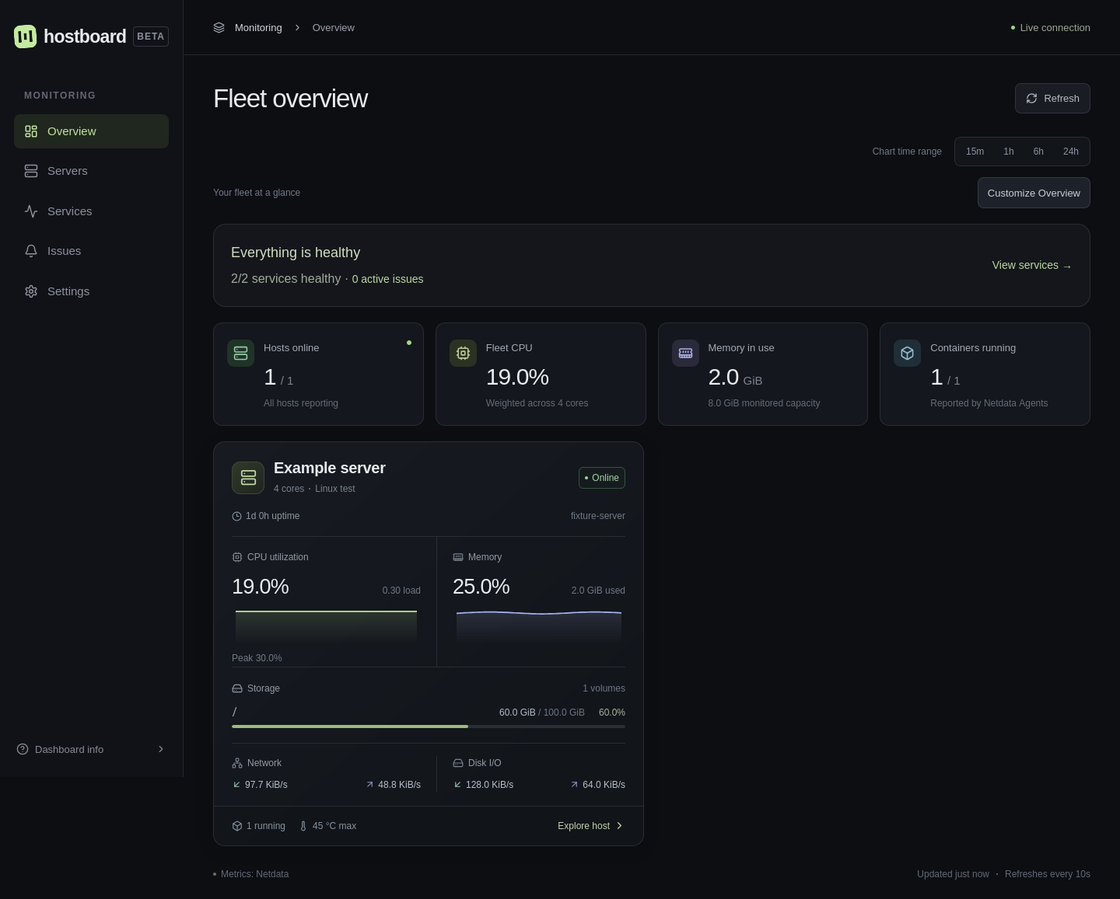
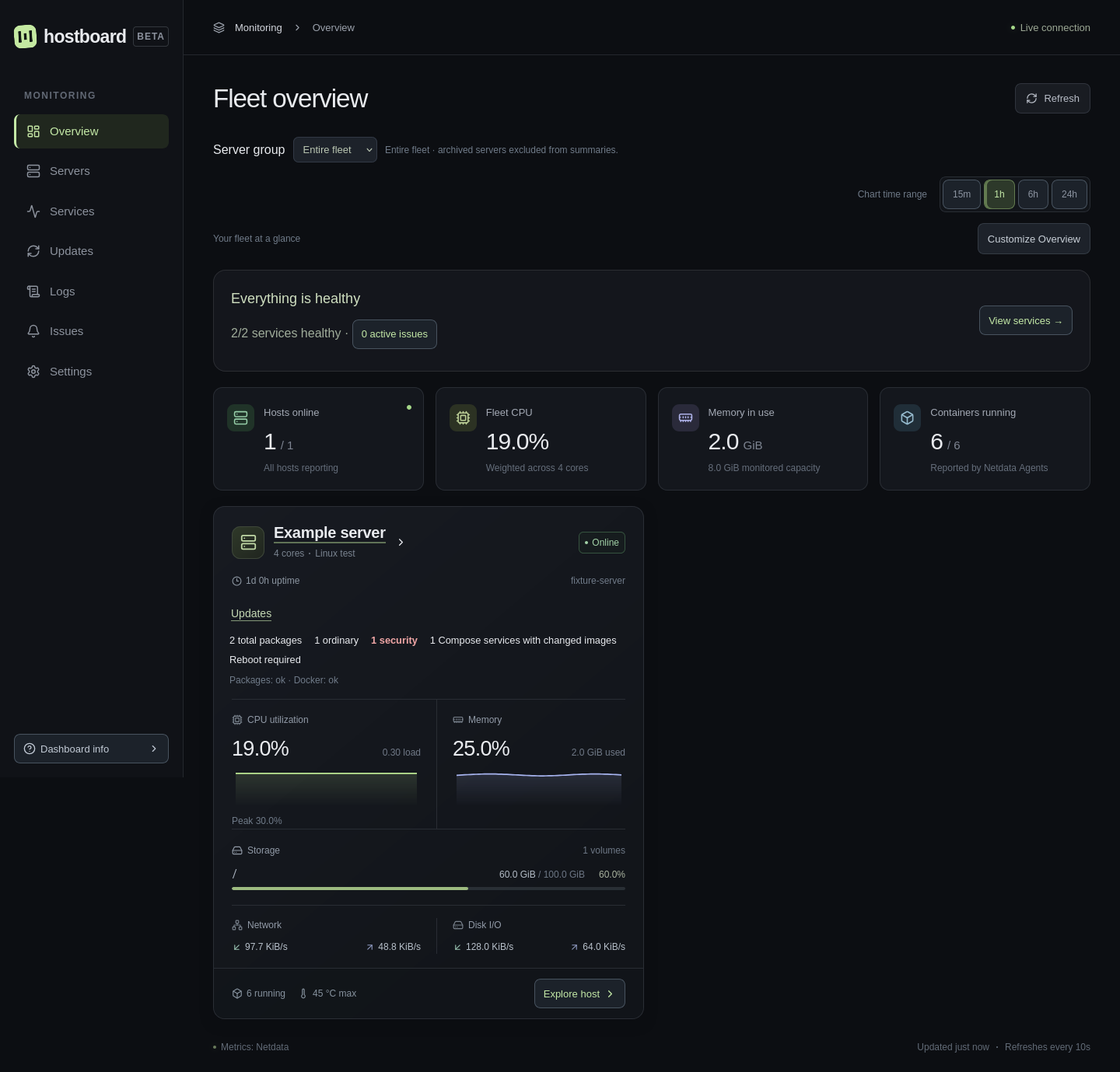
Refresh public guides for current main and published releases

diff --git a/README.md b/README.md
@@ -1,22 +1,27 @@
 # Hostboard
 
-> v0.6 adds optional, administrator-protected Docker logs and incident investigation, retaining the independently verified v0.5.3 monitoring reliability baseline.
+A self-hosted dashboard for servers monitored by **Netdata Agents**. View live metrics, historical charts, Docker resources, Netdata alerts, service availability, persistent incidents, and update inventories in one place.
 
-A self-hosted dashboard for servers monitored by **Netdata Agents**. View live metrics, historical charts, Docker resources, Netdata alerts, service availability, and persistent incidents in one place.
+**Version scope:** this README describes `main` (0.9.0). The latest [published release is v0.7.1](https://github.com/KLCaron/hostboard/releases/latest). Update Monitor, issue handling, container cards, and the newest dependency fixes are on `main` and are not included in that published image. To run the current code, use the [source-build instructions](docs/installation.md#build-from-source). Do not assume a `0.9.0` registry image exists just because that version appears in the source defaults.
 
-Hostboard queries existing Agents directly. It does not replace Netdata's collectors, metric storage, retention, or alert engine, and does not require Netdata Cloud. Its own SQLite database stores service checks, incidents, notification delivery state, and application preferences.
+Hostboard queries existing Agents directly. It does not replace Netdata's collectors, metric storage, retention, or alert engine, and does not require Netdata Cloud. Its own SQLite database stores server registrations, service checks, incidents, issue-handling rules, notification delivery state, and application preferences.
 
 ![Hostboard dashboard with an example server](docs/screenshots/overview.png)
 
 - Multiple servers, filesystem capacity, temperatures, network and disk throughput.
-- Historical metric investigation, diagnostics, container resources, and alert history.
+- Historical metric investigation, diagnostics, expandable container cards, and alert history.
+- Register, discover, group, and manage existing Netdata Agents in Settings.
 - Optional Docker logs with time windows, search, live tail and incident navigation through a restricted SSH adapter.
 - HTTP/TCP service checks, outage/recovery tracking, and optional SMTP notifications.
+- Acknowledge, snooze, ignore, and restore individual issues while retaining observations and history.
+- Read-only package, reboot, and Docker image update inventories through optional host collectors.
 - Customizable Overview layout and browser preferences.
 - Local administrator login or existing Cloudflare Access JWT verification.
 - Published Docker images for Linux amd64 and arm64; one application container and SQLite.
 
-## Quick installation
+## Published-release installation
+
+This installs **v0.7.1** and its release-specific feature set. For the current `main` features and dependency fixes, [build from source](docs/installation.md#build-from-source) instead. Use the documentation from the version you check out when operating a release.
 
 Requires Linux, Git, Docker Engine with Compose v2, and at least one reachable Netdata Agent supporting `/api/v3/nodes`, `/api/v3/contexts`, `/api/v3/data`, and `/api/v3/alerts`. You do not need Node.js or Python to run the published image. Allow roughly 384 MiB for the container and space for your chosen service-history retention.
 
@@ -53,13 +58,19 @@ The CLI writes `config/hosts.json`:
 }
 ```
 
-The exact `node` must appear as a hostname, machine GUID, or node UUID in that Agent's `/api/v3/nodes` response. An Agent may be a streaming parent serving multiple nodes. Add further entries to this file and recreate Hostboard:
+The exact `node` must appear as a hostname, machine GUID, or node UUID in that Agent's `/api/v3/nodes` response. An Agent may be a streaming parent serving multiple nodes. This file bootstraps the persistent server registry once; later edits do not add or update registered servers.
 
-```sh
-docker compose up -d --force-recreate --wait
-```
+For additional servers, approve the exact Agent origin and IP addresses in deployment-managed `private/agents.json`, restart Hostboard to load that policy, then use **Settings → Servers → Add server**. Test the connection, select the exact node, and save it. Administrators can also rename, group, disable, archive, and restore servers there. See [server connections, approval, and migration](docs/servers.md).
 
-Hostboard validates configuration at startup. An unavailable Agent appears offline with a connection error; other hosts and the dashboard still work. Keep Agent APIs private and allow only Hostboard's source network. Historical retention belongs to Netdata, so upgrading Hostboard does not move or backfill metrics.
+Hostboard validates configuration at startup. An unavailable Agent or disconnected streamed child appears offline; reachable nodes without fresh samples appear stale. Other hosts and the dashboard continue reporting independently. Keep Agent APIs private and allow only Hostboard's source network. Historical retention belongs to Netdata, so upgrading Hostboard does not move or backfill metrics.
+
+## Read the dashboard
+
+**Overview** summarizes the fleet; **Servers** provides per-host metrics, diagnostics, and history. Host alert counts link to that server's active metric issues. **Services** shows independent application checks and a searchable grid of container cards. Each card separates Docker state/health from application reachability and expands for resource investigation and log links. New containers can appear through Netdata without automatically gaining application checks or approved log access. [Service and container signals](docs/service-checks.md#container-resources).
+
+![Expandable container cards on main, using synthetic example data](docs/screenshots/containers.png)
+
+In **Issues**, administrators can acknowledge one occurrence, snooze a condition, or treat it as expected. The **Handled** tab records the reason and operator and lets you restore the alert. Handling changes Hostboard's active list, counts, and matching service-check emails; collection and incident history continue. It does not change Netdata, Netdata Cloud, or watchdog notification settings. [Issue-handling behavior](docs/operations.md#handling-individual-issues).
 
 ## Administration and notifications
 
@@ -72,6 +83,12 @@ SMTP is optional. Configure `private/smtp.json` during setup or from the [SMTP e
 ## Optional container logs
 
 Read approved Docker stdout/stderr from container and service details, or open related logs around an incident. All log APIs require server-side administrator authorization. The optional forced-command SSH adapter runs on each Docker host; the main application never mounts a Docker socket. No new port or log-storage stack is required. Review the [setup, privilege boundary and limitations](docs/logs.md) before enabling it.
+
+## Optional Update Monitor
+
+**Updates** shows package/security candidates, reboot flags, changed Compose image content, and collection freshness. **Settings → Updates** controls snapshot-read timing and per-host preferences. This requires the [optional collector and restricted SSH reader](docs/updates.md); Netdata alone does not supply the inventory. **Refresh Status** rereads the existing snapshot and does not run a collector, install packages, pull images, or restart services. Registry additions in Settings are proposals for an operator to review and apply on the host.
+
+![Read-only Update Monitor on main, using synthetic example data](docs/screenshots/updates.png)
 
 ## Backup, upgrade and recovery
 
@@ -87,16 +104,10 @@ Backups contain credentials and should be copied securely off-host. The helper u
 
 ## Documentation and support
 
-[Installation](docs/installation.md) · [Networking](docs/networking.md) · [Authentication / Cloudflare Access](docs/authentication.md) · [Configuration](docs/configuration.md) · [Service checks](docs/service-checks.md) · [Operations](docs/operations.md) · [Container logs](docs/logs.md) · [Troubleshooting](docs/troubleshooting.md) · [Security](SECURITY.md) · [Contributing](CONTRIBUTING.md)
+[Installation](docs/installation.md) · [Server management](docs/servers.md) · [Networking](docs/networking.md) · [Authentication / Cloudflare Access](docs/authentication.md) · [Configuration](docs/configuration.md) · [Service checks](docs/service-checks.md) · [Operations and issue handling](docs/operations.md) · [Container logs](docs/logs.md) · [Update Monitor](docs/updates.md) · [Troubleshooting](docs/troubleshooting.md) · [Security](SECURITY.md) · [Contributing](CONTRIBUTING.md)
 
 Report bugs and feature requests in [GitHub Issues](https://github.com/KLCaron/hostboard/issues). Include the Hostboard version, sanitized configuration, browser, and relevant logs. Do not post credentials, tokens, real monitoring endpoints, or database backups. Follow [SECURITY.md](SECURITY.md) for sensitive reports.
 
 ## License
 
 Hostboard is **AGPL-3.0-only**; see [LICENSE](LICENSE). If you modify and provide Hostboard over a network, offer users the corresponding source as required by the license. Releases link to their source commit. Dependencies retain their own compatible licenses and notices; see [third-party notices](THIRD_PARTY_NOTICES.txt) and [dependency review](docs/dependencies.md). Screenshots show the actual application using synthetic test data and generic names.
-
-### Server management
-
-Administrators can add, test, rename, disable, archive and group existing Netdata Agents in Settings → Servers. Discovery pins physical node identity and reports available metrics and host metadata. Deployment-owned destination policy remains separate from the registry. See [server connections, approval and migration](docs/servers.md).
-
-Read-only [Update Monitor](docs/updates.md) shows APT package/security candidates, reboot flags and Compose image digest changes. Optional scheduled host snapshots keep package-manager and Docker permissions out of the web application.

diff --git a/docs/installation.md b/docs/installation.md
@@ -1,6 +1,8 @@
 # Installation
 
-Use the [README quick start](../README.md) for a new installation. The published image includes the setup CLI and database initialization; no private files, build tools, external database, Netdata Cloud account, or Cloudflare account are required.
+Choose the version before setting up a new installation. The [README published-release instructions](../README.md#published-release-installation) install v0.7.1. The `main` branch currently describes 0.9.0, including features and dependency fixes not yet in a published release; use [Build from source](#build-from-source) for that code. A source version or default image reference does not establish that its image has been published.
+
+Both published and locally built images include the setup CLI and database initialization. Running them requires Linux, Git, Docker Engine and Compose v2; no host Node.js runtime, external database, Netdata Cloud account, or Cloudflare account is required. The backup/upgrade helper additionally needs host Python 3.
 
 ## Setup
 
@@ -18,7 +20,7 @@ For manual setup, copy `.env.example` and `config/hosts.example.json`, create an
 
 The `scripts/setup.sh` wrapper mounts only the project directory. Use `./data` or another directory **inside the project** with that wrapper. An absolute host directory must also be mounted into the setup container at the same path; otherwise setup cannot prepare the host's storage or its permissions.
 
-For a fresh installation using external storage, run this instead of `scripts/setup.sh`:
+For a fresh v0.7.1 release installation using external storage, run this instead of `scripts/setup.sh`:
 
 ```sh
 DATA_DIR="$HOME/hostboard-data"
@@ -29,6 +31,8 @@ docker run --rm -it --user "$(id -u):$(id -g)" \
 ```
 
 Enter the exact absolute value of `DATA_DIR` at the persistent data directory prompt. Then run `./scripts/setup.sh --check` and `docker compose up -d --wait` normally. Use a path without spaces or shell syntax. This flow was verified with external SQLite storage, an unavailable Agent, and container recreation. Existing installations should stop Hostboard and retain a consistent backup before moving data or changing `HOSTBOARD_DATA_DIR`.
+
+For a local source build, replace the image in that `docker run` command with your built tag, persist the same tag in `.env`, and supply `HOSTBOARD_IMAGE` to the wrapper's `--check` command as described below.
 
 ## HTTPS proxy
 
@@ -48,12 +52,22 @@ The container must become healthy. Sign in, check that your server appears onlin
 
 ## Build from source
 
+For a fresh installation of current `main`:
+
 ```sh
+git clone https://github.com/KLCaron/hostboard.git
+cd hostboard
 docker build -t hostboard:local .
 HOSTBOARD_IMAGE=hostboard:local ./scripts/setup.sh
+# Setup writes the source version's registry reference; keep using your local image:
+sed -i 's|^HOSTBOARD_IMAGE=.*|HOSTBOARD_IMAGE=hostboard:local|' .env
+HOSTBOARD_IMAGE=hostboard:local ./scripts/setup.sh --check
+docker compose up -d --wait
 ```
 
-Set `HOSTBOARD_IMAGE=hostboard:local` in the generated `.env` before `docker compose up -d --wait`. Published images avoid this build step. Architecture support is Linux amd64/arm64; Docker Desktop and other operating systems are not part of the release acceptance matrix.
+The explicit image override is needed for both setup commands: the wrapper does not read `.env` to select its setup image. Compose reads the persisted `HOSTBOARD_IMAGE` from `.env`. Use the same private Agent addressing and browser-origin rules as a published installation. Building needs network access and more resources than running the application; no host npm installation is needed.
+
+These commands are for a fresh directory. For an existing deployment, retain a paired image/configuration/database backup and the old local image before building a new, distinct image tag and changing `.env`; see [locally built image upgrades](operations.md#locally-built-images). Do not rerun setup over existing files. Published releases avoid the build step. Architecture support is Linux amd64/arm64; Docker Desktop and other operating systems are not part of the release acceptance matrix.
 
 ## Independent watchdog and authentication
 

diff --git a/docs/operations.md b/docs/operations.md
@@ -4,6 +4,8 @@
 
 Stable release image: `ghcr.io/klcaron/hostboard:0.7.1`, Linux amd64/arm64. Each `vX.Y.Z` Git tag must match `package.json`. Publishing runs tests before building, and refuses an existing version tag. Do not move Git tags or republish an existing version. GHCR allows administrators to change tags, so use the published **sha256 manifest digest** for immutable deployments. The GitHub Release records that digest; build metadata/SBOM/provenance are attached to the image. No moving `latest` tag is published. Maintainers may dispatch a verified `candidate-<commit>` image for pre-release acceptance; it is not a stable release. Only reviewed stable semantic versions are released.
 
+The current `main` source version is 0.9.0. Its Update Monitor, issue handling, container cards, and newer dependency fixes are not part of the v0.7.1 image. Use a [local source build](installation.md#build-from-source) for those changes until a new release is published. The guides on `main` describe that code; use a release checkout's own guides for its image. Do not select an image based only on the source version or `.env.example` default.
+
 `v0.6.0` remains an early candidate Git tag; no stable v0.6.0 image or GitHub Release was published. v0.6.1 established the centralized Logs explorer; v0.6.2 adds consistent navigation, contextual links and interaction states across all six sections. It keeps schema 3, the existing source identities, log query bounds and adapter privileges unchanged.
 
 Use `HOSTBOARD_IMAGE=ghcr.io/klcaron/hostboard@sha256:...` in `.env` to pin the complete multi-platform release. Keep a copy of the selected source release alongside your deployment files to satisfy source availability and recover the matching helpers. No automatic updater is installed.
@@ -27,6 +29,10 @@ v0.5.2 migrates schema **1 → 2** transactionally, preserving observations as e
 
 v0.5.3 adds schema **2 → 3** in an ordered transaction. It adds historical target metadata without rebuilding observations. Existing generations remain explicitly `legacy-unavailable`: current configuration cannot prove their original definitions. Fresh generations retain sanitized metadata. Both schema-1 and actual schema-2 release fixtures are tested. v0.5.2 refuses schema 3; an image-only downgrade is unsupported. Restore its schema-2 pre-upgrade checkpoint, matching private/configuration files and saved image together.
 
+## Locally built images
+
+`scripts/manage.sh upgrade` pulls its selected image and is intended for registry images. For a locally built deployment, make the same paired backup before changing code or configuration and keep the saved image available locally. Build the new source under a distinct local image tag, set that tag as `HOSTBOARD_IMAGE` in `.env`, and recreate only Hostboard with `docker compose up -d --wait --wait-timeout 120 hostboard`. Verify fresh metrics and administrator access. Keep the previous image until the new build is accepted; the paired rollback helper can restore its saved local image ID. Reusing a tag without preserving its old image can remove that recovery path.
+
 ## Paired restore
 
 ```sh
@@ -43,7 +49,7 @@ docker compose run --rm --no-deps -T --entrypoint node hostboard dist/server/ser
 docker compose up -d --wait
 ```
 
-The v0.5.3 offline command accepts schemas 1, 2 and 3. Use the saved v0.5.1 image only with its schema-1 checkpoint. For an older release without the maintenance CLI, use its matching restore instructions and paired pre-upgrade database. Never delete WAL files from a running database. Do not run restore while another Hostboard process has the same data directory open.
+The v0.7.1 and current `main` maintenance commands accept schemas 1–4; older commands may accept fewer. Select the saved image that matches the checkpoint, rather than relying on a newer validator's range to establish application compatibility. For an older release without the maintenance CLI, use its matching restore instructions and paired pre-upgrade database. Never delete WAL files from a running database. Do not run restore while another Hostboard process has the same data directory open.
 
 ## Existing SSH / host-network deployments
 

diff --git a/CONTRIBUTING.md b/CONTRIBUTING.md
@@ -4,17 +4,21 @@ Use Node.js 24, npm, Python 3 and Git. Docker Compose v2 is required for the ins
 
 ```sh
 npm ci
+npm audit --audit-level=high
+node scripts/check-licenses.mjs
+npm run typecheck
 npm test
 npm run build
+npm run test:reliability-integration
+npm run test:logs-integration
 npx playwright install --with-deps firefox
 npm run test:browser
-node scripts/check-licenses.mjs
 docker build -t hostboard:ci .
 HOSTBOARD_TEST_IMAGE=hostboard:ci npm run test:image-browser
 HOSTBOARD_TEST_IMAGE=hostboard:ci python3 tests/clean_install.py
 ```
 
-The image browser check exercises real login, dashboard, administrator Settings and logout against the built container with a controlled Agent, including the application security headers.
+The image browser check exercises real login, dashboard, administrator Settings, read-only Update Monitor, and logout against the built container with a controlled Agent, including the application security headers. On a host requiring sudo Docker access, run the Python Docker-log check as `sudo -n python3 tests/log_container.py` and the SSH check as `DOCKER=sudo npx tsx tests/log-ssh-integration.ts` instead of `npm run test:logs-integration`.
 
 The browser runner starts an isolated backend and controlled Netdata-compatible fixture automatically; it never contacts live Agents. Clean-install acceptance clones the committed repository into a temporary directory, runs an actual Compose project with a controlled Agent and registry, exercises setup/auth/configuration/persistence/upgrade/backup/restore/failure handling, and removes its services. Commit the candidate files before this test. On a local host requiring sudo for Docker, use `DOCKER='sudo -n docker' HOSTBOARD_TEST_IMAGE=hostboard:ci python3 tests/clean_install.py`. The test forwards only its Compose/image variables through sudo.
 
@@ -25,6 +29,16 @@ For interactive development, run setup after `npm run build`, using `node dist/s
 Reuse the shared [UI interaction patterns](docs/interactions.md) for navigation, selection and disclosure controls.
 
 Open focused PRs with a problem description and meaningful validation. Keep AGPL licensing, null/gap semantics, explicit per-node query isolation, authorization/CSRF checks, pinned monitoring targets, and recoverable database migrations. Include paired upgrade/rollback tests for schema changes. Do not introduce live infrastructure, credentials, private environment files, or AI planning/tracking documents into commits. Public user documentation belongs in Git; local development notes remain ignored.
+
+Both required Verify jobs, **application** and **clean-install**, must pass on the final PR head before a manual merge. Do not bypass repository rules or enable automatic merging.
+
+## Keep public documentation aligned
+
+Before publishing a release, distinguish its published image/tag from unreleased `main` features. Review README installation/version notes, installation commands, configuration files/defaults, security guidance, migration/rollback instructions, and feature guides. Source version defaults are not proof that a registry image exists. Use the release checkout's matching helper scripts and documentation.
+
+When changing a user workflow, update its guide and README links. Capture documentation screenshots from the built application using synthetic fixtures and generic host/container names; never publish live infrastructure or credentials. Check relative Markdown links and section anchors, and exercise documented setup commands in a disposable installation. Dated maintenance reports are historical records; their observations do not describe current repository settings indefinitely.
+
+## Dependency maintenance
 
 Dependencies use the committed npm lockfile. `npm audit --audit-level=high` and `node scripts/check-licenses.mjs` run in CI; new licenses require an explicit review. Regenerate `THIRD_PARTY_NOTICES.txt` with `node scripts/generate-notices.mjs` after dependency changes. `Dependabot` proposes npm, Docker base and Actions updates. Changes to CI must preserve pinned action revisions, read-only pull-request permissions, and absence of production SSH credentials.
 

diff --git a/docs/updates.md b/docs/updates.md
@@ -1,5 +1,7 @@
 # Read-only Update Monitor
 
+This guide describes the Update Monitor on current `main` (0.9.0). It is not included in the published v0.7.1 image. Use the [source-build path](installation.md#build-from-source), or a later published release whose notes include this feature.
+
 Open **Updates** for an attention-first grid of registered hosts. Cards show pending package names (security first), unique Compose services with changed image content, reboot flags and collection freshness. Fleet counters follow the selected server group, exclude paused hosts and include last observations; an unknown/stale count means the totals are incomplete. Collector success is displayed separately from update urgency. Choose **View details** for package versions, security classifications, repositories and per-container Compose image checks in a desktop side panel or expandable mobile card. The overview stores bounded previews (five packages and three changed services); full inventories load only when requested. Existing snapshots receive previews on application startup, without running a collector or registry check. Host metric cards link to the corresponding details. Filter using the existing server groups. Archived/disabled hosts retain their last observations but stop being polled by Hostboard. As with existing Netdata agents, the independent local producer continues until an operator disables its timer; the web application cannot manage that service. All update APIs, including summaries, require a local administrator session or a verified, allowlisted Cloudflare Access identity. Status refresh also requires Hostboard's same-origin JSON request headers.
 
 **This feature only observes.** There are no install, upgrade, image-pull, deployment, restart, shell or execution APIs. **Refresh Status** rereads the host's latest scheduled snapshot; it does not start host collection or contact a registry. Use your separate update tools to make changes.
@@ -16,7 +18,7 @@ Registry additions are **proposals**, stored separately per host. Add an exact l
 
 There is deliberately no GUI Apply button, privileged helper, new SSH command or credential store. The forced-command reader remains unchanged. The Updates image detail links missing approvals directly to the relevant host's settings; unavailable checks remain separate from unchanged image results.
 
-The additive `update_preferences` table leaves `app_settings` and schema version 4 compatible with the previous application. Older applications ignore GUI overrides and use their deployment configuration. Collector policy reports extend version-1 snapshots with an optional field accepted by the new application. **Deploy the application before the reporting collector.** When rolling back to 0.8.1, restore its paired image/config/database checkpoint and the prior collector script and snapshot on each host that was upgraded; the old strict reader does not accept the new optional field in fresh snapshots. Save those host files separately through protected operator backups. Collector code changes do not require reader, unit, timer or permission changes.
+The additive `update_preferences` table keeps schema version 4. Earlier Update Monitor builds ignore GUI overrides and use their deployment configuration. Collector policy reports extend version-1 snapshots with an optional field accepted by the new application. **Deploy the application before the reporting collector.** When rolling back to an older Update Monitor build that rejects that field, restore its paired image/config/database checkpoint and the prior collector script and snapshot on each host that was upgraded. Save those host files separately through protected operator backups. Collector code changes do not require reader, unit, timer or permission changes. Version numbers used by earlier source builds do not imply that matching release images were published.
 
 ## Collection and security boundary
 

diff --git a/docs/interactions.md b/docs/interactions.md
@@ -6,9 +6,10 @@ Hostboard shares its interaction tokens and primitives in `src/style.css`. Use t
 - **Contextual actions:** `text-link` provides a visible underline, comfortable spacing and stronger hover treatment. Use `context-actions` to wrap adjacent links/buttons without punctuation separators. Informational values and status labels have no interaction styling.
 - **Host alerts:** a nonzero alert count on Overview or Servers is a native link to Issues, filtered to that server's active metric alerts. The destination survives reloads, and each alert opens its existing investigation view. The link is separate from the host's expand control.
 - **Expandable rows:** native `details`/`summary` share a rounded surface, chevron, focus ring and persistent expanded indicator. The browser supplies keyboard activation and accessible expanded state. Keep nested actions in the detail body, outside the summary. Only the summary toggles the row.
+- **Container cards:** Services uses a responsive grid of those native disclosures. The resting card shows host, Docker state/health, CPU, memory, and independent application-check status. Expansion reveals image, availability details and investigation/log actions. Search filters container and host names; narrow viewports use one column. Keep unknown readings and missing checks explicit.
 - **Selection:** use controlled `aria-pressed`, `aria-selected`, `aria-current` or a checked input. The shared selected surface includes a leading indicator or border as well as color. Hover must not erase persistent selection. `TabList` provides arrow, Home and End navigation with automatic activation; only the active tab belongs to the Tab sequence.
 - **Other controls:** native inputs/selects keep their field surfaces. Buttons expose disabled state and busy operations can use `aria-busy`. Dialogs use native modal behavior for focus containment, Escape and focus return. Coarse pointers receive larger targets; reduced-motion preferences suppress surface transitions.
 
-The seven-section review covers Overview actions/customization, Servers expansion/diagnostics/charts, Services checks/container resources, Logs sources/search/ranges/selection/export, Issues filters/incidents and Settings editing/associations/operations. Updates adds read-only inventory disclosure, explicit stale/unavailable states and status-only refresh. Logs remains a full-width explorer; metric values, reachability labels and operational status remain information.
+The seven sections are Overview, Servers, Services, Updates, Logs, Issues, and Settings. Review covers Overview customization; server diagnostics/history and alert links; service checks and container cards; read-only update inventories and status refresh; log sources/search/ranges/selection/export; issue filters, incidents and handling; and administrator settings. Updates separates stale/unavailable coverage from update urgency. Logs remains a full-width explorer; metric values, reachability labels and operational status remain information.
 
 Firefox desktop and touch-width regressions check default, hover, focus, selection, expansion, disabled and processing states, navigation semantics, nested controls and page overflow. Screenshots use controlled fixture data and remain ignored local artifacts. These checks do not constitute a full WCAG audit.

diff --git a/docs/configuration.md b/docs/configuration.md
@@ -5,17 +5,20 @@ Files containing real configuration are Git-ignored. None is included in the ima
 | File | Purpose / lifecycle |
 | --- | --- |
 | `.env` | Published image, host interface/port, browser URL, data/private directories, container UID/GID; read by Compose |
-| `config/hosts.json` | 1–20 Agent/node entries; read on startup; changes require recreation |
+| `config/hosts.json` | 0–100 bootstrap Agent/node entries; imported into the server registry once; also supplies compatibility destination approval when no explicit Agent policy exists |
 | `config/checks.json` | Optional bootstrap checks; imported only when SQLite settings are first initialized |
+| `private/agents.json` | Optional exact Agent origins, approved IPs, and credential environment references; restart Hostboard after policy changes |
 | `private/admin.json` | Authentication and exact allowed service targets; required; startup validation |
 | `private/smtp.json` | Optional SMTP transport credentials; startup validation |
-| `data/monitor.sqlite` (+ WAL/SHM) | Persistent preferences, editable services, incidents, samples, notification queue, audit history |
+| `private/logs.json` and `private/logs/` | Optional per-host log readers, dedicated SSH key, and pinned host keys; [log setup](logs.md) |
+| `private/updates.json` and `private/updates/` | Optional identity-pinned snapshot readers, timing defaults, dedicated SSH key, and pinned host keys; [update setup](updates.md) |
+| `data/monitor.sqlite` (+ WAL/SHM) | Server registry/groups, preferences, editable checks, incidents, samples, issue-handling rules, log mappings, update snapshots/preferences, notification queue, and audit history |
 
 See [.env.example](../.env.example) for deployment defaults. Docker mounts config/private read-only and data read/write. The default image runs as uid/gid 1000, overridden by the unprivileged UID/GID selected during setup. The filesystem is otherwise read-only, all capabilities are dropped, and no Docker socket is mounted.
 
 ## Agent entries
 
-`id`: unique `[a-zA-Z0-9_-]`, 1–64 characters. `name`: display label, 1–80 characters. `url`: HTTP(S) origin, no path, embedded credentials, query, or fragment. `node`: exact hostname/GUID/UUID from `/api/v3/nodes`, no wildcards. Optional `tokenEnv`: an explicitly passed environment variable name containing a bearer token. Optional `addresses`: literal approved IP list; omitted names are pinned on first successful DNS resolution for this process. Wrong/ambiguous node selectors produce a visible connection error rather than mixing hosts.
+`id`: unique `[a-zA-Z0-9_-]`, 1–64 characters. `name`: display label, 1–80 characters. `url`: HTTP(S) origin, no path, embedded credentials, query, or fragment. `node`: exact hostname/GUID/UUID from `/api/v3/nodes`, no wildcards. Optional `tokenEnv`: an explicitly passed environment variable name containing a bearer token. Optional `addresses`: literal approved IP list. Under compatibility approval, DNS names without `addresses` are resolved and pinned once at startup; failed DNS remains denied until restart. An explicit `private/agents.json` replaces those compatibility grants. Wrong/ambiguous node selectors produce a visible connection error rather than mixing hosts.
 
 ## Local admin policy
 

diff --git a/SECURITY.md b/SECURITY.md
@@ -1,6 +1,6 @@
 # Security
 
-Hostboard v0.6 receives fixes on `main`; use a current supported release. This project has undergone a practical release security review, not a formal audit or a guarantee of complete security.
+Security fixes are developed on `main` and reach published images through tagged releases. Check the [release notes](https://github.com/KLCaron/hostboard/releases) and use the documentation for your deployed version. When a fix is on `main` but has not been released, the [source-build instructions](docs/installation.md#build-from-source) explain how to run that code; a source version does not guarantee a published image with that tag. This project has undergone practical release security checks, not a formal audit or a guarantee of complete security.
 
 For a sensitive vulnerability, use the repository's private GitHub vulnerability reporting if available, or contact the maintainer privately through their GitHub profile before disclosing exploit details. Do not post credentials, tokens, private endpoints, or backups in an issue. Public non-sensitive hardening reports can use GitHub Issues.
 
@@ -37,3 +37,7 @@ CI performs TypeScript/backend/watchdog/build tests, Firefox desktop/mobile regr
 ## Update Monitor
 
 The Update Monitor is permanently observation-only. Its administrator-only APIs read scheduled snapshots; no install, upgrade, pull, deployment, restart, arbitrary command or remote collection trigger is provided. The separate SSH reader has no Docker/sudo rights and can read only a root-owned bounded snapshot. The optional trusted local producer needs Docker daemon access; review this residual root-equivalent privilege before installing it. Registry credentials remain host-local and registry/token/CDN destinations require explicit approval. See [the complete boundary and setup](docs/updates.md).
+
+## Issue handling
+
+Acknowledge, snooze, ignore, and restore actions require administrator authorization, exact Origin/JSON request checks, and a current configuration revision. Rules are tied to the registered host identity and condition; changed evaluations and warning-to-critical escalation resurface issues. Handling can suppress matching Hostboard service-check emails, including queued messages, but does not disable collection, resolve an incident, or change independent Netdata/Cloud/watchdog delivery. Reasons and operator identities are retained in SQLite and backups. See [handling individual issues](docs/operations.md#handling-individual-issues).

diff --git a/docs/service-checks.md b/docs/service-checks.md
@@ -21,6 +21,14 @@ Limits: up to 100 checks including archived checks; interval 10–3600 seconds; 
 
 Advanced seed-only `headersEnv` points to an explicitly passed environment variable containing JSON headers; credentials are never exposed by the configuration API, and such a check cannot be moved to a different origin through the UI. `watchdogHistory` imports compatible independent watchdog incidents without duplicating notification ownership. These integrations remain deployment-managed. Never approve untrusted credential-bearing endpoints.
 
+## Container resources
+
+On current `main`, **Services → Container resources** is a searchable card grid. Each card shows the container's host, state, configured Docker health result, CPU usage, memory, and any associated independent check. Click the card or focus it and press Enter/Space to expand its image, availability details, resource investigation, and log links. CPU 100% represents one core; memory is resident MiB. Offline/stale hosts show unavailable live readings.
+
+These are separate signals: **running** is Docker state; **healthy** is the container's configured Docker health check; **Reachable** is an independent Hostboard HTTP/TCP check. A container without a health check or application check is not assumed healthy. New containers appear when Netdata reports them; they do not automatically create service checks or log approvals. Use the target policy and Settings workflow above for application checks, and the [log-source setup](logs.md) for logs. Filtering supports container and host names, with an explicit empty result when nothing matches.
+
+Issue acknowledgement, snoozing, and ignore rules do not turn a failing service green or resolve its incident. See [handling individual issues](operations.md#handling-individual-issues) for their effects on the active list, counts, and Hostboard emails.
+
 ## Evaluation identity and discontinued monitoring
 
 A material evaluation change (target, host association, protocol, response criteria, schedule or threshold) starts a durable generation and retires its open incident without reporting recovery. A replacement begins with unknown availability and no last success. Name, group, notification and severity edits preserve its generation. Existing v0.5.1 observations migrate to generation 1; destinations changed before this release cannot be distinguished retroactively.

diff --git a/docs/logs.md b/docs/logs.md
@@ -1,6 +1,6 @@
 # Container logs and incident investigation
 
-Hostboard v0.6 optionally reads existing **Docker-managed stdout/stderr** on approved hosts. It does not collect or retain log bodies, change Docker logging settings, require Netdata Cloud, or add a log database. A normal Compose installation needs no log configuration and retains its monitoring features.
+Hostboard optionally reads existing **Docker-managed stdout/stderr** on approved hosts. It does not collect or retain log bodies, change Docker logging settings, require Netdata Cloud, or add a log database. A normal Compose installation needs no log configuration and retains its monitoring features.
 
 ## Workflow
 
@@ -24,6 +24,8 @@ The helper permits only a bounded JSON `sources` or `query` request. Its only Do
 Python standard-library parsing, fixed paths/methods, strict schemas, pinned SSH identity, process CPU/address-space/fd/core limits, per-host file-lock admission and deadlines reduce attack surface; they are not a formal security audit. Review changes before upgrading the adapter. Removing a source from the host allowlist revokes it even if a browser mapping still exists.
 
 ## Optional setup on one or more hosts
+
+Netdata discovering a new container does not grant log access. Add an exact source selector to that host's root-managed allowlist and associate it with the container or service in **Settings → Log Sources**. Compose project/service/replica selectors survive normal container replacement; a full container-ID selector must be reviewed when the container is replaced. Keep existing approvals when extending the allowlist.
 
 Requires a Linux Docker host with Python 3, OpenSSH server, systemd, and its `docker` socket group. The installation helper targets Debian/Ubuntu’s `ssh.service`; adapt the service name on other distributions after review. Run this only on hosts whose administrator accepts the socket privilege above. It never restarts Docker or application containers.
 

diff --git a/docs/troubleshooting.md b/docs/troubleshooting.md
@@ -12,5 +12,9 @@
 - **Email unavailable:** missing SMTP is optional. Check transport configuration/TLS and outbound port; use Settings' test once, then confirm inbox receipt. SMTP acceptance does not prove receipt. Transport secrets and detailed provider errors are not returned to browsers.
 - **429 response:** sign-in/API/manual-test limits are active. Wait for the returned interval; proxies may share a source bucket. Do not repeatedly retry credentials.
 - **Newer database schema:** restore the matching pre-upgrade image/database pair. Do not edit `PRAGMA user_version` to bypass protection.
+- **Image tag not found after cloning main:** the source version may be newer than the latest published release. Use a published release checkout with its image, or follow the [source-build instructions](installation.md#build-from-source), including the setup-image override and persisted `.env` image reference.
+- **Adding a host to hosts.json has no effect:** it is a one-time registry bootstrap. Approve the destination in deployment policy, restart Hostboard after policy changes, and add/test the server in Settings. See [server management](servers.md).
+- **New container has no application check or logs:** Netdata discovery only supplies metrics/state. Add an approved HTTP/TCP check separately and extend the host's root-managed log allowlist plus Settings associations. A running container does not prove application availability.
+- **Updates not configured or unavailable:** install the optional collector and restricted reader using [the update guide](updates.md). Check matching host ID/GUID, scheduled snapshot freshness, SSH identity and registry approval. Refresh Status only rereads a snapshot; it does not run collection or install anything.
 
 When reporting a problem, include the release version and sanitized error text. Database backups, raw private files, live URLs, tokens, SMTP credentials, and real email allowlists do not belong in public issues.

diff --git a/docs/networking.md b/docs/networking.md
@@ -27,7 +27,7 @@ Agent credentials belong in an explicitly passed environment variable referenced
 
 ## DNS
 
-Service-check policy names and port numbers must match exactly, and every DNS answer must be in the approved IP list. Agent hostnames are pinned to their first resolved address set for the process lifetime, or to optional `addresses` in the host entry. Every connection verifies current DNS answers against that set and connects to the validated address while retaining HTTP Host/TLS SNI. Use explicit Agent `addresses` for approvals that should survive restarts. After an intentional DNS/IP change, update approved addresses and recreate Hostboard. Link-local/metadata, multicast, unspecified and mapped IPv6 destinations are rejected; explicit private/loopback monitoring remains supported.
+Service-check policy names and port numbers must match exactly, and every DNS answer must be in the approved IP list. Explicit Agent approval comes from `private/agents.json`. Without that file, bootstrap `hosts.json` origins supply compatibility grants: literal IPs or `addresses` are used directly, and legacy DNS names are resolved and pinned once at startup. A failed startup lookup stays denied until restart. Every connection verifies current DNS answers against the approved set and connects to the validated address while retaining HTTP Host/TLS SNI. Use explicit Agent `addresses` for durable approval. After an intentional DNS/IP change, update approved addresses and recreate Hostboard, then retest any changed registered origin in Settings. Link-local/metadata, multicast, unspecified and mapped IPv6 destinations are rejected; explicit private/loopback monitoring remains supported.
 
 ## Service endpoints that survive Docker restarts
 
